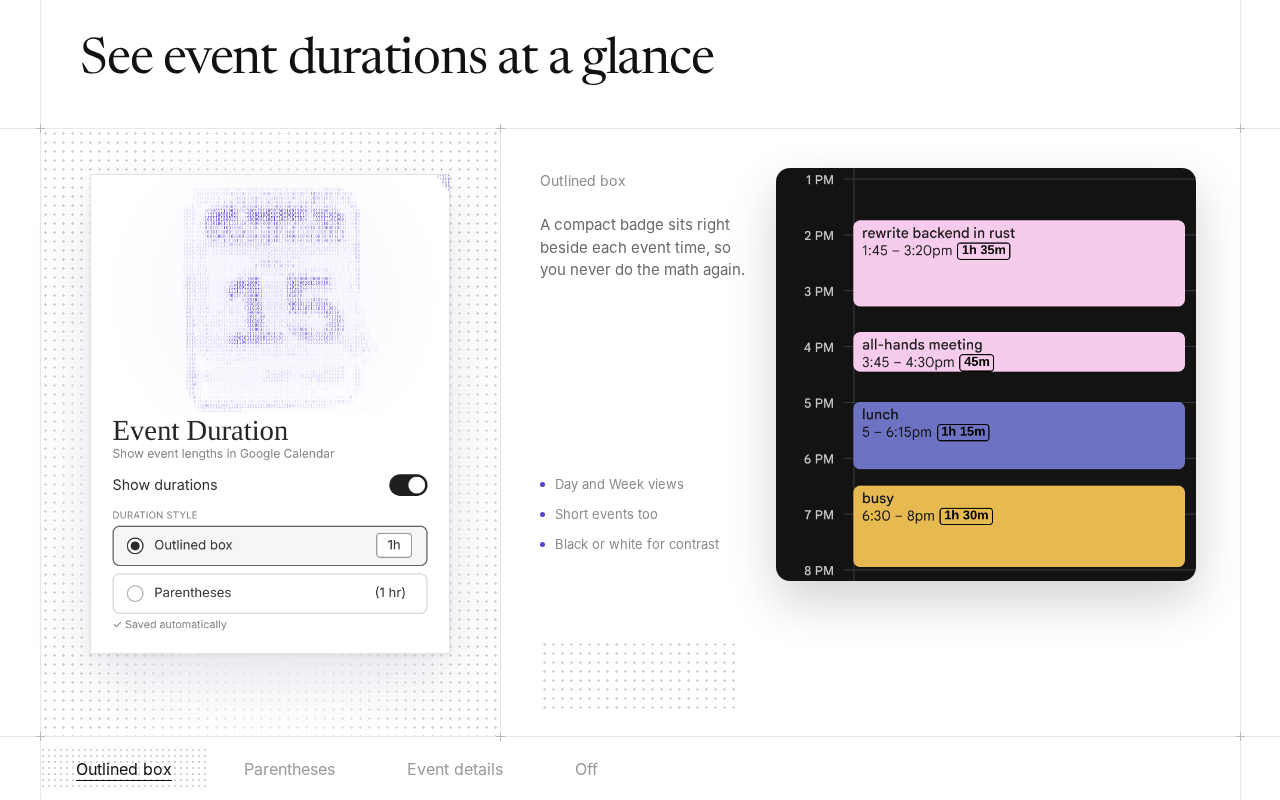
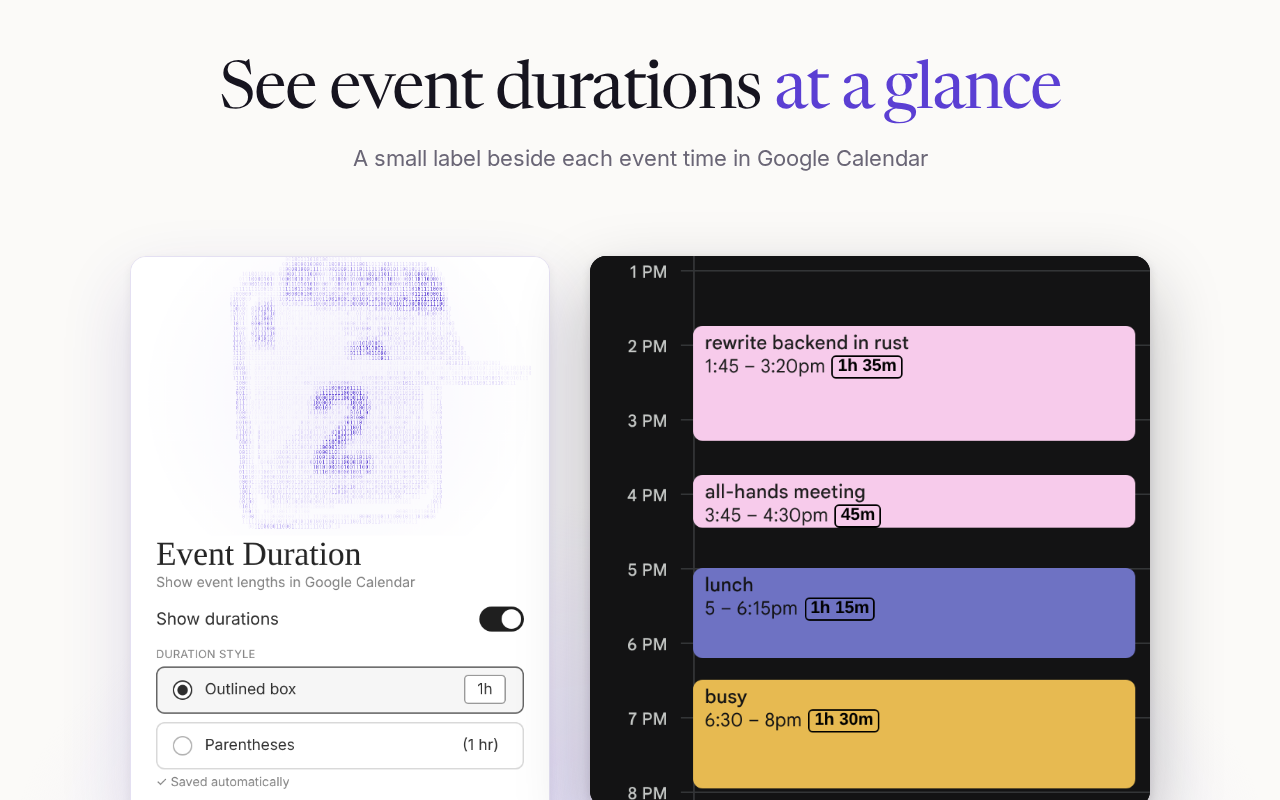
Redesign store images: one headline, large screenshots, no decoration

diff --git a/docs/store-assets/README.md b/docs/store-assets/README.md
@@ -13,7 +13,7 @@ Upload-ready files (Chrome Web Store sizes: screenshots 1280×800, small promo t
 
 ## Editable sources
 
-`source/` holds the cropped captures every image is built from. They come from one live Google Calendar session (Week view, Sunday, October 18, 2026) with the unpacked 0.6.0 extension: `calendar-*.png` is one day's 1–8 PM column in each state (no date header), `popup-*.png` is the extension popup in the same states, `details-*.png` is the time line of one event's details popup, and `event-chip.png` is one event from the same session. The sidebar, other days, account details, and browser chrome were cropped out before saving. Raw full-window captures are not in the repository.
+`source/` holds the cropped captures every image is built from. They come from one live Google Calendar session (Week view, Sunday, October 18, 2026) with the unpacked 0.6.0 extension: `calendar-*.png` is one day's 1–8 PM column in each state (no date header), `popup-*.png` is the real extension popup in the same states, captured at 2× on a settled animation frame, `details-*.png` is the time line of one event's details popup, and `event-chip.png` is one event from the same session. The sidebar, other days, account details, and browser chrome were cropped out before saving. Raw full-window captures are not in the repository.
 
 `fonts/Newsreader.ttf` (SIL Open Font License, see `fonts/OFL.txt`) is the headline font for these images only; it is not part of the extension.
 
